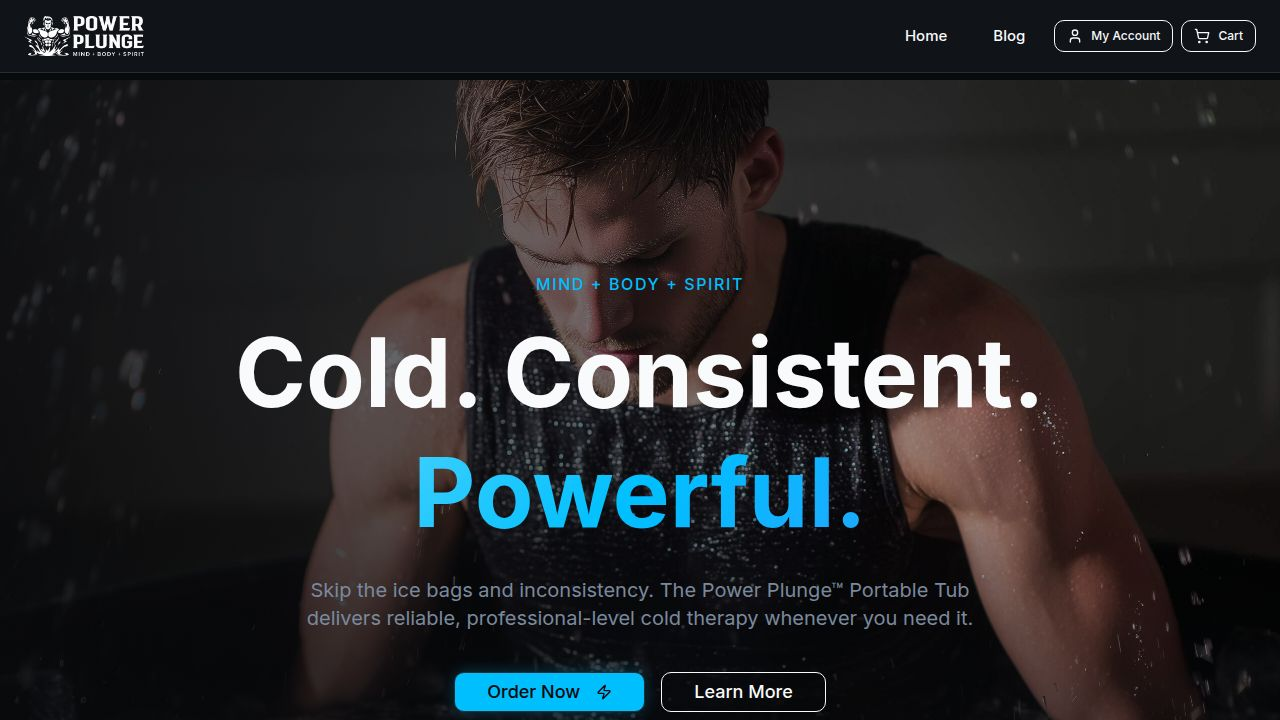
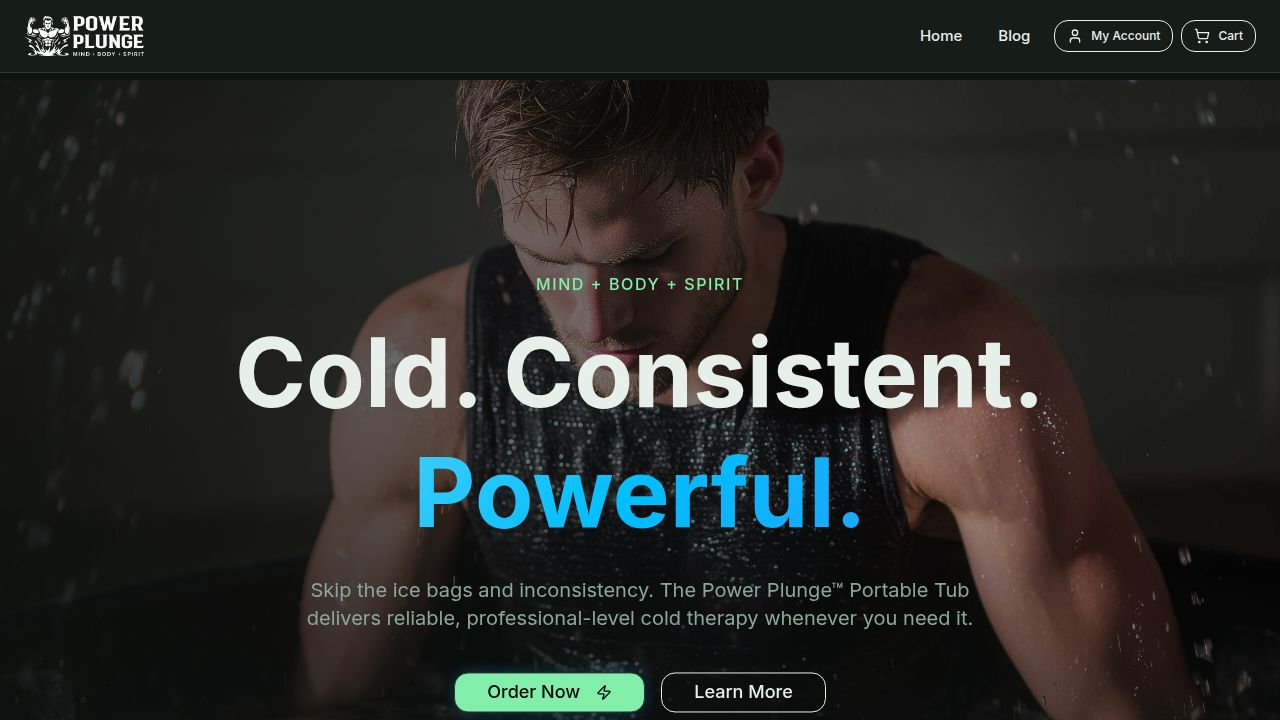
Improve theme integration by mapping custom theme colors to application components
Implement a ThemeProvider component that converts custom hex theme colors into HSL values and maps them to Shadcn UI CSS variables, ensuring consistent visual theming across the application.

Replit-Commit-Author: Agent
Replit-Commit-Session-Id: dee783ae-90c4-4ca5-8570-ed073f7805cf
Replit-Commit-Checkpoint-Type: intermediate_checkpoint
Replit-Commit-Event-Id: 7a9b0b04-b6a8-456b-af7f-d0146eadb28b
Replit-Commit-Screenshot-Url: https://storage.googleapis.com/screenshot-production-us-central1/d8b07c78-4448-4917-b95d-49bba5a808ee/dee783ae-90c4-4ca5-8570-ed073f7805cf/i9Mz9X4
Replit-Helium-Checkpoint-Created: true

diff --git a/client/src/components/ThemeProvider.tsx b/client/src/components/ThemeProvider.tsx
@@ -2,11 +2,140 @@ import { useEffect } from "react";
 import { useQuery } from "@tanstack/react-query";
 import type { ThemePreset } from "@shared/themePresets";
 
+function hexToHsl(hex: string): string | null {
+  hex = hex.replace(/^#/, "");
+  if (hex.length === 3) hex = hex.split("").map((c) => c + c).join("");
+  if (hex.length !== 6) return null;
+
+  const r = parseInt(hex.slice(0, 2), 16) / 255;
+  const g = parseInt(hex.slice(2, 4), 16) / 255;
+  const b = parseInt(hex.slice(4, 6), 16) / 255;
+
+  const max = Math.max(r, g, b);
+  const min = Math.min(r, g, b);
+  const l = (max + min) / 2;
+  let h = 0;
+  let s = 0;
+
+  if (max !== min) {
+    const d = max - min;
+    s = l > 0.5 ? d / (2 - max - min) : d / (max + min);
+    if (max === r) h = ((g - b) / d + (g < b ? 6 : 0)) / 6;
+    else if (max === g) h = ((b - r) / d + 2) / 6;
+    else h = ((r - g) / d + 4) / 6;
+  }
+
+  return `${Math.round(h * 360)} ${Math.round(s * 100)}% ${Math.round(l * 100)}%`;
+}
+
+function darken(hex: string, amount: number): string {
+  hex = hex.replace(/^#/, "");
+  const r = Math.max(0, parseInt(hex.slice(0, 2), 16) - amount);
+  const g = Math.max(0, parseInt(hex.slice(2, 4), 16) - amount);
+  const b = Math.max(0, parseInt(hex.slice(4, 6), 16) - amount);
+  return `#${r.toString(16).padStart(2, "0")}${g.toString(16).padStart(2, "0")}${b.toString(16).padStart(2, "0")}`;
+}
+
+function lighten(hex: string, amount: number): string {
+  hex = hex.replace(/^#/, "");
+  const r = Math.min(255, parseInt(hex.slice(0, 2), 16) + amount);
+  const g = Math.min(255, parseInt(hex.slice(2, 4), 16) + amount);
+  const b = Math.min(255, parseInt(hex.slice(4, 6), 16) + amount);
+  return `#${r.toString(16).padStart(2, "0")}${g.toString(16).padStart(2, "0")}${b.toString(16).padStart(2, "0")}`;
+}
+
+function isLight(hex: string): boolean {
+  hex = hex.replace(/^#/, "");
+  const r = parseInt(hex.slice(0, 2), 16);
+  const g = parseInt(hex.slice(2, 4), 16);
+  const b = parseInt(hex.slice(4, 6), 16);
+  return (r * 299 + g * 587 + b * 114) / 1000 > 128;
+}
+
+const THEME_TO_SHADCN: Record<string, string | string[]> = {
+  "--theme-bg": ["--background", "--popover"],
+  "--theme-bg-card": ["--card", "--secondary"],
+  "--theme-bg-elevated": ["--muted"],
+  "--theme-text": ["--foreground", "--card-foreground", "--popover-foreground"],
+  "--theme-text-muted": "--muted-foreground",
+  "--theme-primary": ["--primary", "--ring", "--ice", "--ice-glow"],
+  "--theme-accent": "--accent",
+  "--theme-border": ["--border", "--input", "--card-border"],
+  "--theme-error": "--destructive",
+  "--theme-radius": "--radius",
+};
+
+function mapThemeToShadcn(variables: Record<string, string>): Record<string, string> {
+  const mapped: Record<string, string> = {};
+  const root = document.documentElement;
+
+  for (const [themeKey, shadcnKeys] of Object.entries(THEME_TO_SHADCN)) {
+    const value = variables[themeKey];
+    if (!value) continue;
+
+    if (themeKey === "--theme-radius") {
+      const keys = Array.isArray(shadcnKeys) ? shadcnKeys : [shadcnKeys];
+      for (const k of keys) {
+        root.style.setProperty(k, value);
+      }
+      continue;
+    }
+
+    if (!value.startsWith("#")) continue;
+
+    const hsl = hexToHsl(value);
+    if (!hsl) continue;
+
+    const keys = Array.isArray(shadcnKeys) ? shadcnKeys : [shadcnKeys];
+    for (const k of keys) {
+      root.style.setProperty(k, hsl);
+    }
+  }
+
+  const primary = variables["--theme-primary"];
+  const bg = variables["--theme-bg"];
+  const accent = variables["--theme-accent"];
+
+  if (primary && primary.startsWith("#")) {
+    const primaryFg = isLight(primary) ? "#0a0a0a" : "#fafafa";
+    const primaryFgHsl = hexToHsl(primaryFg);
+    if (primaryFgHsl) root.style.setProperty("--primary-foreground", primaryFgHsl);
+  }
+
+  if (accent && accent.startsWith("#")) {
+    const accentFg = isLight(accent) ? "#0a0a0a" : "#fafafa";
+    const accentFgHsl = hexToHsl(accentFg);
+    if (accentFgHsl) root.style.setProperty("--accent-foreground", accentFgHsl);
+  }
+
+  const error = variables["--theme-error"];
+  if (error && error.startsWith("#")) {
+    const errorFg = isLight(error) ? "#0a0a0a" : "#fafafa";
+    const errorFgHsl = hexToHsl(errorFg);
+    if (errorFgHsl) root.style.setProperty("--destructive-foreground", errorFgHsl);
+  }
+
+  const text = variables["--theme-text"];
+  if (text && text.startsWith("#")) {
+    const textHsl = hexToHsl(text);
+    if (textHsl) root.style.setProperty("--secondary-foreground", textHsl);
+  }
+
+  const font = variables["--theme-font"];
+  if (font) {
+    root.style.setProperty("--font-display", font);
+    root.style.setProperty("--font-sans", font);
+  }
+
+  return mapped;
+}
+
 export function applyThemeVariables(variables: Record<string, string>) {
   const root = document.documentElement;
   for (const [key, value] of Object.entries(variables)) {
     root.style.setProperty(key, value);
   }
+  mapThemeToShadcn(variables);
 }
 
 export function clearThemeVariables(variables: Record<string, string>) {
@@ -14,6 +143,18 @@ export function clearThemeVariables(variables: Record<string, string>) {
   for (const key of Object.keys(variables)) {
     root.style.removeProperty(key);
   }
+  for (const shadcnKeys of Object.values(THEME_TO_SHADCN)) {
+    const keys = Array.isArray(shadcnKeys) ? shadcnKeys : [shadcnKeys];
+    for (const k of keys) {
+      root.style.removeProperty(k);
+    }
+  }
+  root.style.removeProperty("--primary-foreground");
+  root.style.removeProperty("--accent-foreground");
+  root.style.removeProperty("--secondary-foreground");
+  root.style.removeProperty("--destructive-foreground");
+  root.style.removeProperty("--font-display");
+  root.style.removeProperty("--font-sans");
 }
 
 export function applyThemeVariablesToElement(variables: Record<string, string>, element: HTMLElement) {
